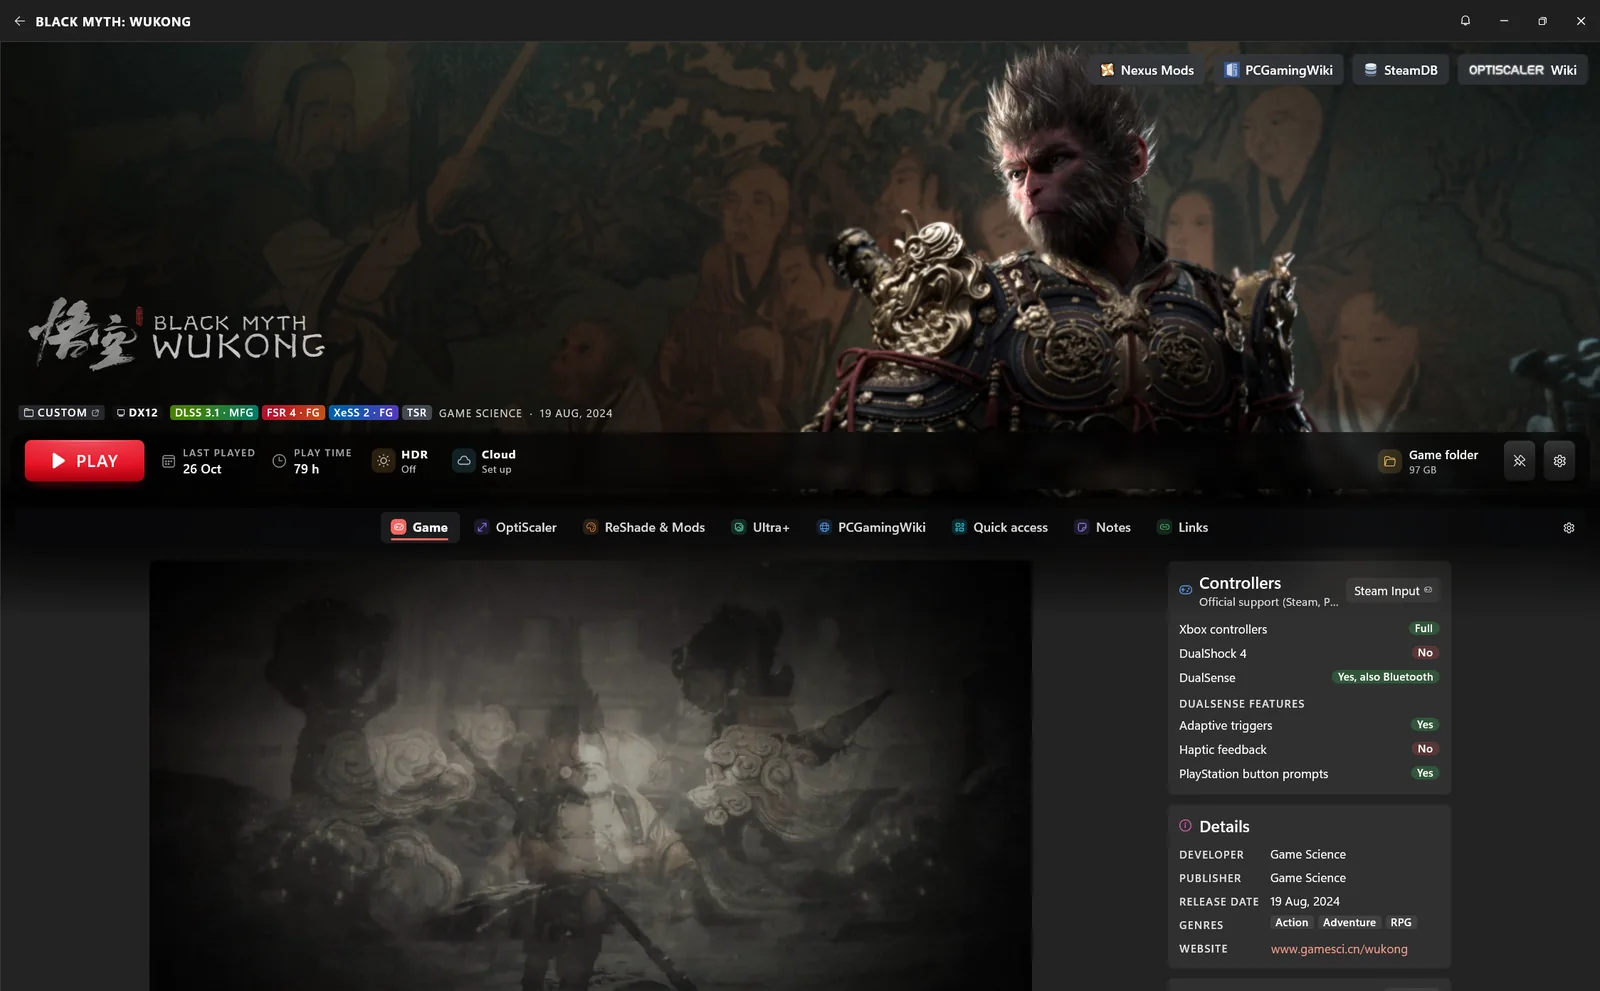
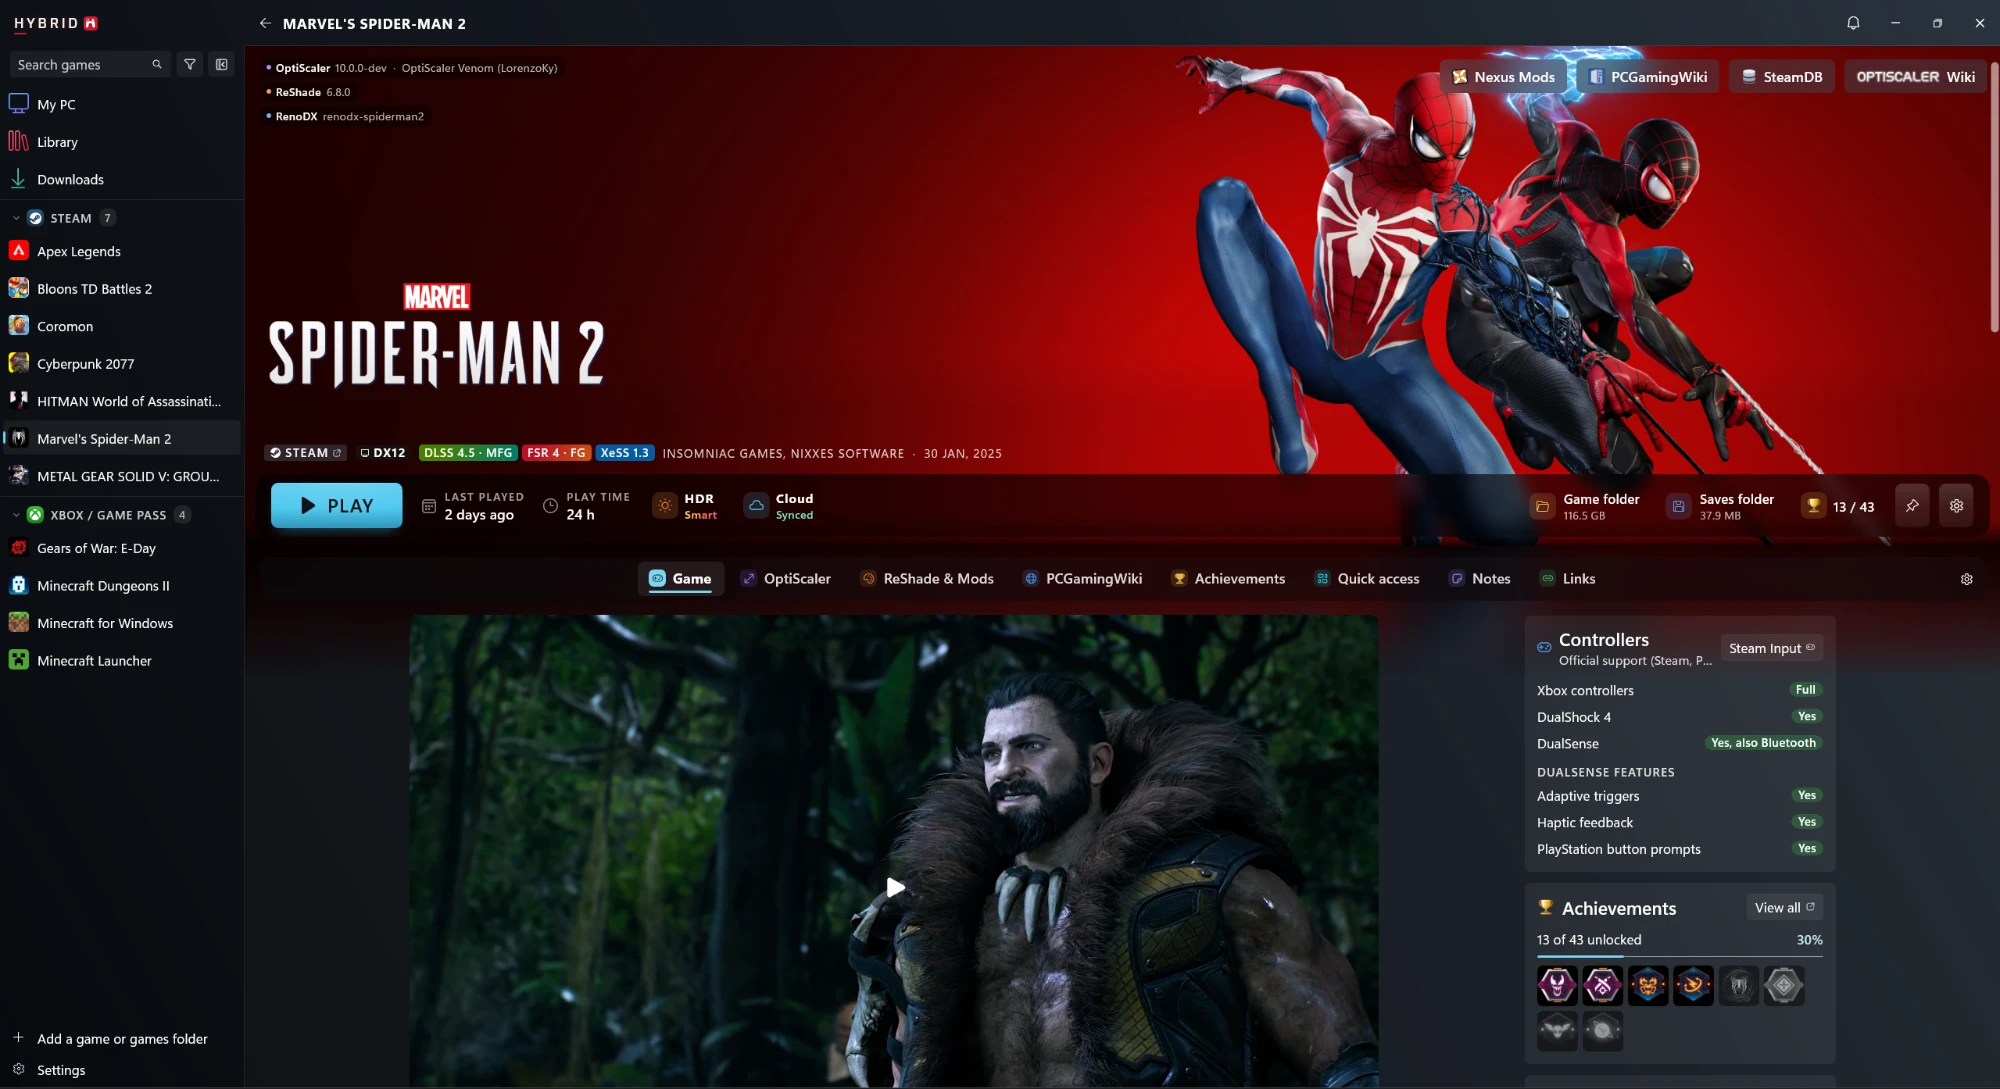
Site hero: full app screenshot, larger; new intro text, small Discord pill and Ko-fi strip; plain FAQ and section titles

diff --git a/site/index.html b/site/index.html
@@ -40,7 +40,6 @@
       <a href="#how">How it works</a>
       <a href="#custom">Customise</a>
       <a href="#faq">FAQ</a>
-      <a href="#community">Discord</a>
       <a href="#support">Support</a>
       <a href="#report">Report</a>
       <a href="#third-party">Credits</a>
@@ -54,9 +53,10 @@
 <section id="home" class="hero">
   <div class="wrap hero-grid">
   <div class="hero-text">
-    <div class="pill-row reveal"><div class="pill"><span class="dot"></span>Free · Windows 11 · 64-bit · portable</div><a class="pill new" href="#features">New in 1.3.2 · achievement pop-ups, Home button, settings search</a></div>
-    <h1 class="reveal">The <span class="glow red">Hybrid</span> Launcher:<br><span class="h1-rest">manage your games,<br>manage your mods,<br>enhance the experience.</span></h1>
-    <p class="lede reveal">One library for Steam, Epic, GOG and Xbox games, and the mods that make them run and look better.</p>
+    <div class="pill-row reveal"><a class="pill new" href="#features">New in 1.3.2 · achievement pop-ups, Home button, settings search</a></div>
+    <h1 class="reveal">The <span class="glow red">Hybrid</span> Launcher</h1>
+    <p class="lede reveal"><span class="lede-lead">A traditional game launcher and a mod manager fused into one.</span>
+      Manage your games, manage your mods and enhance the experience with the popular mods that make them run and look better. Built with customization and tons of quality of life options in mind.</p>
     <div class="cta reveal">
       <a class="btn primary big" href="https://github.com/LorenzoKy/Hybrid-Launcher/releases/latest" data-download>
         <svg class="ico"><use href="#i-download"/></svg><span>Download for Windows</span>
@@ -64,13 +64,19 @@
       <a class="btn ghost big" href="https://github.com/LorenzoKy/Hybrid-Launcher"><svg class="ico"><use href="#i-github"/></svg><span>View on GitHub</span></a>
     </div>
     <p class="fine reveal" id="release-line">Portable zip, no installer. <a href="https://github.com/LorenzoKy/Hybrid-Launcher/releases">All releases</a></p>
+    <a class="support-strip reveal" href="https://ko-fi.com/lorenzoky"><svg class="ico"><use href="#i-heart"/></svg><span>Support keeps it going</span><b>Ko-fi →</b></a>
   </div>
 
   <div class="stage reveal" id="stage" aria-label="The real app, on a sample game">
     <div class="stage-glow"></div>
     <figure class="app">
-      <img src="assets/shots/overview.webp?v=13" alt="Hybrid Launcher showing a game page: the banner, the Play button with play time, HDR and cloud status, and the tabs Game, OptiScaler, ReShade &amp; Mods, PCGamingWiki, Quick access, Notes and Links." width="1600" height="991">
+      <img src="assets/shots/overview.webp?v=14" alt="Hybrid Launcher showing a game page: the library sidebar, the banner with the installed mods, the Play button with play time, HDR and cloud status, and the tabs Game, OptiScaler, ReShade &amp; Mods, PCGamingWiki, Achievements, Quick access, Notes and Links." width="2000" height="1089">
     </figure>
+    <a class="discord-banner" href="https://discord.com/invite/yjXsQehpaR">
+      <svg class="discord-logo" aria-hidden="true"><use href="#i-discord"/></svg>
+      <span class="discord-text">Join the Hybrid Launcher Discord</span>
+      <span class="discord-join">Join server →</span>
+    </a>
   </div>
   </div>
 
@@ -101,7 +107,7 @@
 <section id="features" class="band">
   <div class="wrap">
     <div class="eyebrow reveal">Features</div>
-    <h2 class="reveal">A launcher and a mod tool, in one program.</h2>
+    <h2 class="reveal">A launcher and a mod tool in one program.</h2>
     <p class="reveal muted section-sub">Every picture below is the real app, running on sample games.</p>
 
     <div class="bento">
@@ -118,7 +124,7 @@
           <figure class="shot bleed" style="--pos: 0% 0%"><img src="assets/shots/optiscaler.webp?v=13" alt="The OptiScaler tab: choose Stable, Nightly, a fork or a custom build, get notified on updates, then install; ASI plugins, custom DLLs and release notes on the side." loading="lazy"></figure>
           <div class="chip c-a"><svg class="ico"><use href="#i-upscale"/></svg>DLSS → FSR 4</div>
         </div>
-        <p class="say"><b>OptiScaler, made easy.</b> Stable, Nightly, community forks or your own builds, with an <i>Update available</i> button and optional notifications for each. A quick panel for the settings you change most (a fork's extra settings too), configuration profiles, and every version saved, listed and one click away.</p>
+        <p class="say"><b>OptiScaler.</b> Stable, Nightly, community forks or your own builds, with an <i>Update available</i> button and optional notifications for each. A quick panel for the settings you change most (a fork's extra settings too), configuration profiles, and every version saved, listed and one click away.</p>
       </article>
 
       <article class="tile s7 reveal">
@@ -195,7 +201,7 @@
           </div>
           <div class="wtoast"><img src="assets/logo.png" alt=""><div><small>HYBRID LAUNCHER</small><b>OptiScaler Nightly is out</b><span>Click to open the game</span></div></div>
         </div>
-        <p class="say"><b>Notified, your way.</b> New builds of the OptiScaler versions you follow, Ultra+ versions and Hybrid Launcher updates wait in one list beside Minimize. Each source can show a Windows pop-up too, held back while you play.</p>
+        <p class="say"><b>Notifications.</b> New builds of the OptiScaler versions you follow, Ultra+ versions and Hybrid Launcher updates wait in one list beside Minimize. Each source can show a Windows pop-up too, held back while you play.</p>
       </article>
 
       <article class="tile s6 reveal">
@@ -210,7 +216,7 @@
             <div class="bar"><span class="play">PLAY</span><span class="up">Update available</span></div>
           </div>
         </div>
-        <p class="say"><b>What's installed, at a glance.</b> A game's banner lists the mods in its folder with their versions; one click opens the mod's tab, and <i>Update available</i> shows when the build you use has a newer one.</p>
+        <p class="say"><b>Installed mods on the banner.</b> A game's banner lists the mods in its folder with their versions; one click opens the mod's tab, and <i>Update available</i> shows when the build you use has a newer one.</p>
       </article>
     </div>
   </div>
@@ -219,7 +225,7 @@
 <section id="how" class="band">
   <div class="wrap">
     <div class="eyebrow reveal">How it works</div>
-    <h2 class="reveal">Three steps, no installer.</h2>
+    <h2 class="reveal">Up and running in three steps.</h2>
     <ol class="steps">
       <li class="reveal"><span class="n">1</span><h3>Download the zip</h3><p>Get the latest <code>HybridLauncher-…-win-x64.zip</code> and extract it anywhere you can write, for example <code>C:\Games\Hybrid Launcher</code>.</p></li>
       <li class="reveal"><span class="n">2</span><h3>Run it</h3><p>Start <code>HybridLauncher.exe</code>. It finds the games of your launchers by itself, and a short tour shows you around.</p></li>
@@ -232,8 +238,8 @@
   <div class="wrap two pick">
     <div>
       <div class="eyebrow reveal">Make it yours</div>
-      <h2 class="reveal">A launcher, a mod manager, or both.</h2>
-      <p class="reveal muted">Hybrid Launcher adapts to how you play. At the first start you choose what you need: a starting point, a live preview of a game's page, a switch per feature. What you leave out is only hidden, and <b>Settings → Features</b> brings it back any time.</p>
+      <h2 class="reveal">Use as much of it as you want.</h2>
+      <p class="reveal muted">At the first start you choose what you need: a starting point, a live preview of a game's page, a switch per feature. What you leave out is only hidden, and <b>Settings → Features</b> brings it back any time.</p>
       <ul class="modes">
         <li class="reveal"><svg class="ico"><use href="#i-download"/></svg><div><b>Your stores in one launcher</b>Sign in and download, update and play your Steam, Epic and GOG games from one place.</div></li>
         <li class="reveal"><svg class="ico"><use href="#i-upscale"/></svg><div><b>Just a mod manager</b>Skip accounts and downloads, and use it only for OptiScaler, ReShade, RenoDX and Luma on the games you already have.</div></li>
@@ -249,8 +255,7 @@
 
 <section id="faq" class="band">
   <div class="wrap narrow">
-    <div class="eyebrow reveal">FAQ</div>
-    <h2 class="reveal">Questions, answered.</h2>
+    <h2 class="reveal">FAQ</h2>
     <div class="faq">
       <details class="reveal"><summary>Is it free?</summary><p>Yes. It is free and open source software under the GNU GPL v3: use it, read the code, build it, change it and fork it. Forks and unofficial builds just need to credit this project.</p></details>
       <details class="reveal"><summary>Does it change my game files?</summary><p>Only the game folders you ask it to change, when you install a mod. The files a mod replaces can be backed up first (the default), so removing it puts the folder back as it was. Your settings live in <code>%LOCALAPPDATA%\HybridLauncher</code>.</p></details>
@@ -258,16 +263,6 @@
       <details class="reveal"><summary>Can mods get me banned?</summary><p>They can, in games and services that forbid them. Check the rules of every game before you mod it, and never use mods in online or competitive games that do not allow them.</p></details>
       <details class="reveal"><summary>How does it update?</summary><p>A few seconds after it starts it checks for a new version and asks once before updating. A new version also lands in the notification list beside Minimize, with a Windows pop-up you can turn off in Settings → Notifications.</p></details>
     </div>
-  </div>
-</section>
-
-<section id="community" class="band">
-  <div class="wrap narrow">
-    <a class="discord-banner reveal" href="https://discord.com/invite/yjXsQehpaR">
-      <svg class="discord-logo" aria-hidden="true"><use href="#i-discord"/></svg>
-      <div class="discord-text"><h2>Join the Hybrid Launcher Discord</h2></div>
-      <span class="discord-join">Join server →</span>
-    </a>
   </div>
 </section>
 
@@ -313,7 +308,7 @@
 <section class="band final">
   <div class="wrap narrow center">
     <img class="final-logo reveal" src="assets/logo.png" alt="">
-    <h2 class="reveal">Ready to try it?</h2>
+    <h2 class="reveal">Get Hybrid Launcher</h2>
     <p class="reveal"><a class="btn primary big" href="https://github.com/LorenzoKy/Hybrid-Launcher/releases/latest" data-download><svg class="ico"><use href="#i-download"/></svg><span>Download for Windows</span></a></p>
   </div>
 </section>

diff --git a/site/assets/site.css b/site/assets/site.css
@@ -75,7 +75,7 @@ code { font: .88em ui-monospace, "Cascadia Code", Consolas, monospace; backgroun
 
 /* Hero: words on the left, the real app on the right */
 .hero { position: relative; padding: 72px 0 40px; }
-.hero-grid { display: grid; grid-template-columns: minmax(0, 5fr) minmax(0, 7fr); gap: 56px; align-items: center; min-height: calc(100vh - 66px - 170px); }
+.hero-grid { width: min(1600px, 100% - 48px); display: grid; grid-template-columns: minmax(0, 4fr) minmax(0, 7fr); gap: 52px; align-items: center; min-height: calc(100vh - 66px - 170px); }
 .pill-row { display: flex; flex-wrap: wrap; gap: 8px; }
 .pill.new { color: var(--text); text-decoration: none; background: rgba(224,20,43,.16); box-shadow: inset 0 0 0 1px rgba(224,20,43,.45); }
 .pill.new:hover { background: rgba(224,20,43,.26); }
@@ -89,6 +89,8 @@ h1 .glow { background: linear-gradient(92deg, var(--ivory) 0%, #ffb3c2 30%, var(
 h1 .glow.red { background-image: linear-gradient(92deg, #ff8fa6 0%, var(--red-soft) 45%, var(--red) 100%); }
 .h1-rest { display: block; margin: 14px 0 22px; font-size: .56em; line-height: 1.12; letter-spacing: -.02em; font-weight: 700; color: var(--text); }
 .lede { color: var(--muted); font-size: 18.5px; max-width: 33em; margin: 0 0 30px; }
+.hero .lede { color: var(--text); font-size: 19.5px; line-height: 1.65; max-width: 29em; margin-top: 28px; text-wrap: pretty; }
+.hero .lede-lead { display: block; margin-bottom: 10px; font-size: 25px; line-height: 1.3; font-weight: 600; letter-spacing: -.01em; text-wrap: balance; }
 .cta { display: flex; flex-wrap: wrap; gap: 12px; }
 .fine { color: var(--faint); font-size: 14px; margin-top: 16px; }
 
@@ -264,20 +266,22 @@ h2 { font: 700 clamp(30px, 3.8vw, 52px)/1.06 "Segoe UI Variable Display", "Segoe
 .card-link h3::after { content: " →"; color: var(--red-soft); }
 .card-link p { margin: 0; font-size: 15.5px; }
 
-/* Discord banner: the server's blurple, with a soft light behind the logo */
-.discord-banner { position: relative; display: flex; align-items: center; gap: 28px; padding: 32px 36px; border-radius: var(--radius); overflow: hidden; isolation: isolate;
-  color: #fff; text-decoration: none !important; background: linear-gradient(135deg, #5865f2, #4048c8 60%, #2a2e8c);
-  box-shadow: 0 18px 60px rgba(88, 101, 242, .28), inset 0 1px 0 rgba(255,255,255,.2); transition: transform .25s var(--ease), box-shadow .25s ease; }
-.discord-banner::before { content: ""; position: absolute; inset: 0; z-index: -1; background: radial-gradient(260px 160px at 70px 50%, rgba(255,255,255,.2), transparent 70%); }
-.discord-banner:hover { color: #fff; transform: translateY(-3px); box-shadow: 0 24px 70px rgba(88, 101, 242, .42), inset 0 1px 0 rgba(255,255,255,.25); }
-.discord-logo { width: 72px; height: 55px; flex: none; fill: #fff; }
-.discord-text { flex: 1; min-width: 0; }
-.discord-banner h2 { font-size: clamp(24px, 2.6vw, 32px); margin: 0; }
-.discord-join { flex: none; padding: 12px 20px; border-radius: 11px; background: #fff; color: #3b44c4; font-weight: 700; transition: transform .25s var(--ease); }
-.discord-banner:hover .discord-join { transform: translateX(3px); }
-@media (max-width: 720px) {
-  .discord-banner { flex-direction: column; align-items: flex-start; gap: 18px; padding: 26px 22px; }
-}
+/* Discord link under the hero shot: a small glass pill, Discord's blurple only on the logo */
+.discord-banner { display: flex; width: fit-content; max-width: 100%; align-items: center; gap: 12px; margin: 26px auto 0; padding: 9px 10px 9px 16px; border-radius: 12px;
+  color: var(--text); text-decoration: none !important; background: rgba(10, 10, 12, .6); box-shadow: inset 0 0 0 1px rgba(246,244,241,.1);
+  backdrop-filter: blur(8px); transition: background .25s ease, box-shadow .25s ease, transform .25s var(--ease); }
+.discord-banner:hover { color: var(--text); background: rgba(88, 101, 242, .14); box-shadow: inset 0 0 0 1px rgba(88, 101, 242, .5); transform: translateY(-1px); }
+.discord-logo { width: 22px; height: 17px; flex: none; fill: #7983f5; }
+.discord-text { font-size: 14.5px; font-weight: 600; }
+.discord-join { flex: none; padding: 5px 11px; border-radius: 8px; background: rgba(88, 101, 242, .22); color: #c3c8ff; font-weight: 600; font-size: 13px; transition: transform .25s var(--ease); }
+.discord-banner:hover .discord-join { transform: translateX(2px); }
+
+/* Small Ko-fi strip under the download buttons */
+.support-strip { display: inline-flex; align-items: center; gap: 10px; margin-top: 18px; padding: 8px 14px; border-radius: 10px; font-size: 14px; color: var(--text); text-decoration: none !important;
+  background: linear-gradient(135deg, rgba(138,43,226,.18), rgba(200,20,63,.18)); box-shadow: inset 0 0 0 1px rgba(200,60,140,.35); transition: background .25s ease, transform .25s var(--ease); }
+.support-strip:hover { color: var(--text); background: linear-gradient(135deg, rgba(138,43,226,.3), rgba(200,20,63,.3)); transform: translateY(-1px); }
+.support-strip .ico { width: 16px; height: 16px; color: #ff6b8e; }
+.support-strip b { color: #ff9fb6; font-weight: 600; }
 
 /* How it works: three steps on a glowing line */
 .steps { position: relative; list-style: none; margin: 44px 0 0; padding: 0; display: grid; grid-template-columns: repeat(3, 1fr); gap: 16px; }
@@ -347,6 +351,7 @@ h2 { font: 700 clamp(30px, 3.8vw, 52px)/1.06 "Segoe UI Variable Display", "Segoe
 }
 @media (max-width: 1020px) {
   .hero-grid, .two, .two.pick { grid-template-columns: 1fr; gap: 40px; min-height: 0; }
+  .hero-grid { width: min(1240px, 100% - 32px); }
   .app { transform: none; }
   .bento { grid-template-columns: repeat(2, 1fr); }
   .tile, .tile.s4, .tile.s5, .tile.s6, .tile.s7, .tile.s8 { grid-column: span 1; }
